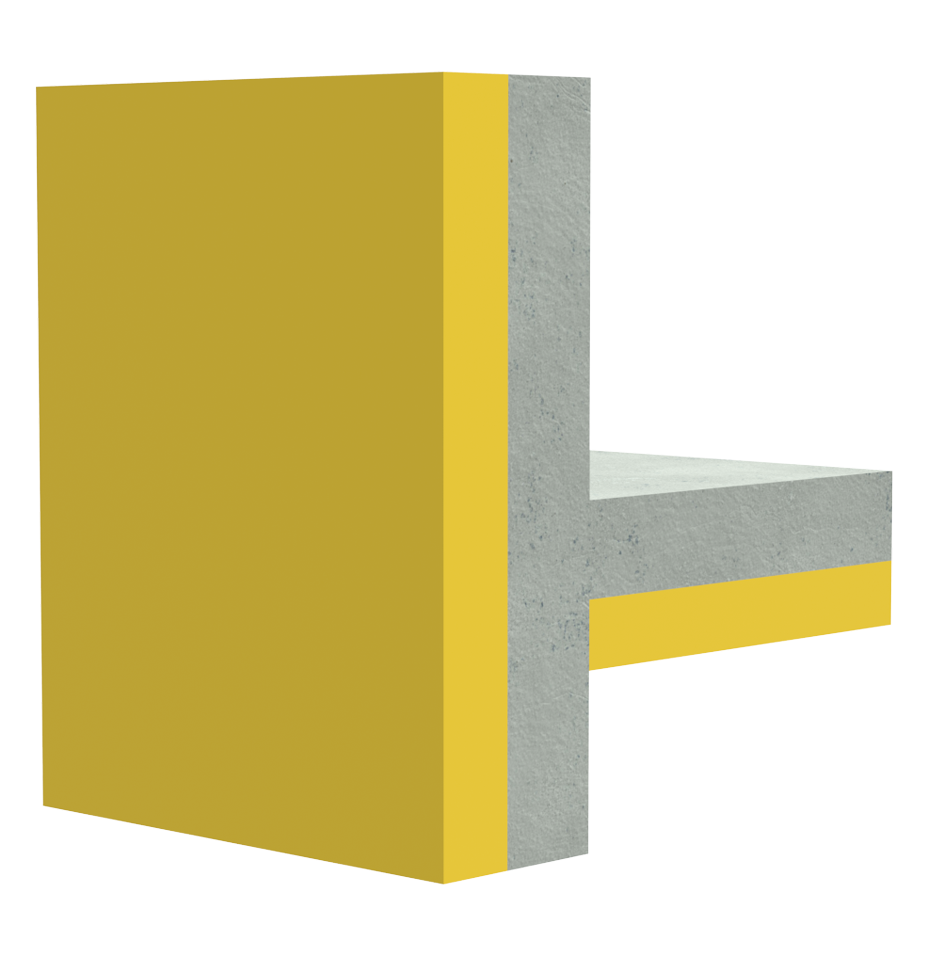
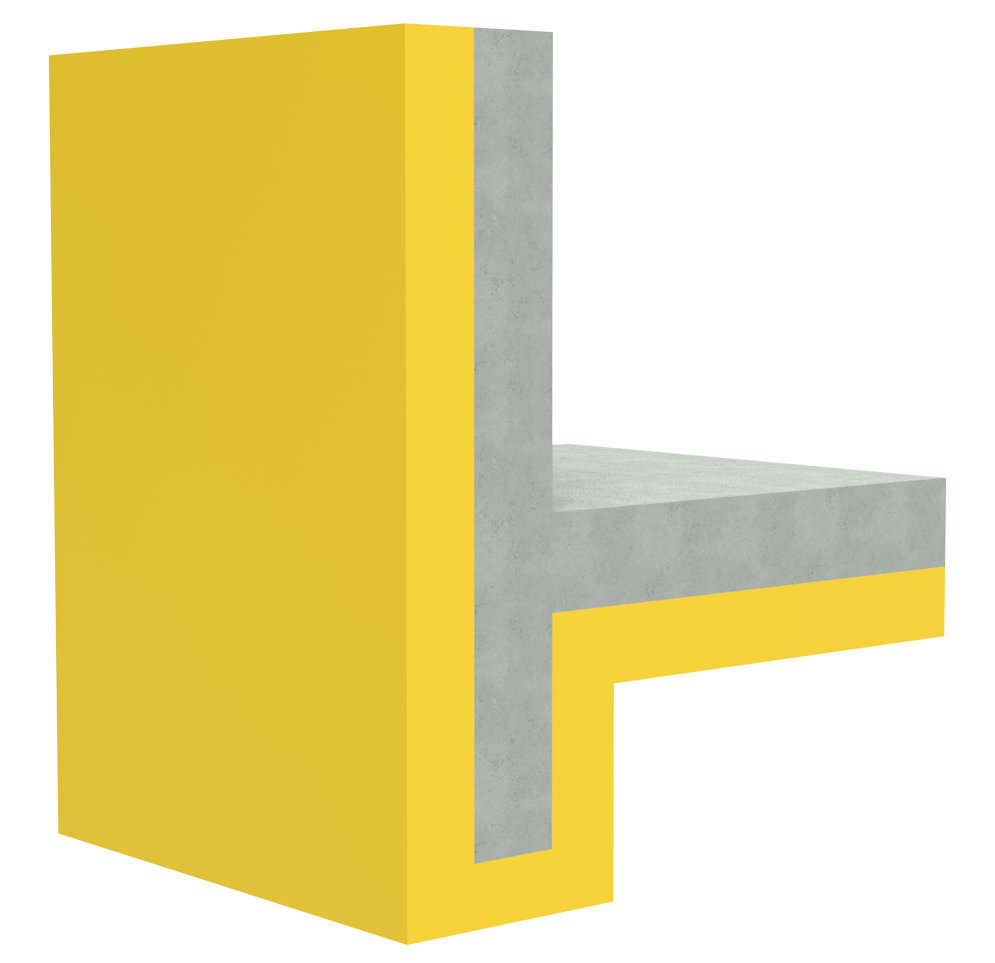
접합부열교 및 3D 수정

diff --git a/asset/3d/editor/js/Bridges.js b/asset/3d/editor/js/Bridges.js
@@ -124,6 +124,7 @@ Bridges.prototype = {
 					let edges = el2.edges;
 					let links = el2.links;
 
+			
 					j = -1;
 
 					while(++j < edges.length) {
@@ -223,7 +224,7 @@ Bridges.prototype = {
 							}
 						}
 						else if (kind == 8) {
-							if (el2.type == 'IW') {
+							if (parseInt(el.userData.floor) >= 1 && el2.type == 'IW') {
 								k = -1;
 								let l;
 								while(++k < links[j].length) {
@@ -242,6 +243,7 @@ Bridges.prototype = {
 								}
 							}
 						}
+
 						else if (kind == 9) {
 							if (el2.type == 'WL' && Math.abs(edges[j][1].y - edges[j][0].y) > 0.00001) {
 								k = -1;
@@ -249,6 +251,7 @@ Bridges.prototype = {
 									let el3 = links[j][k];
 
 									if (el3.type == 'WL' 
+										&& el2.zoneid == el3.zoneid
 										&& Math.round(_angleBetween(el2.center, new THREE.Vector3((edges[j][0].x + edges[j][1].x) / 2, (edges[j][0].y + edges[j][1].y) / 2, (edges[j][0].z + edges[j][1].z) / 2), el3.center)) == ((Math.atan2(el2.normal.z, el2.normal.x) * 180 / Math.PI) < 180 ? -90:90) && 
 										!_includeRect(edges[j], el3)) {
 										done = true;
@@ -257,6 +260,7 @@ Bridges.prototype = {
 								}
 							}
 						}
+						
 						else if (kind == 10) {
 							if (el2.type == 'WL' && Math.abs(edges[j][1].y - edges[j][0].y) > 0.00001) {
 								k = -1;
@@ -295,6 +299,53 @@ Bridges.prototype = {
 								}
 							}
 						}
+						//(지하 지중접합 열교)
+
+						// else if (kind == 13) {
+						// 	// B로 시작하는 층을 확인하기 위한 정규 표현식
+						// 	const floorPattern = /^B\d+$/i;  
+						
+						// 	// el.userData.floor가 문자열일 경우 공백 제거하고 대소문자 통일 후 확인
+						// 	let floorValue = el.userData.floor.trim ? el.userData.floor.trim().toUpperCase() : el.userData.floor.toString().toUpperCase();
+							
+						// 	if ((el.userData.floor == 1 || floorPattern.test(floorValue)) && el2.type == 'FL') {
+						// 		k = -1;
+						// 		while (++k < links[j].length) {
+						// 			let el3 = links[j][k];
+						// 			if (Math.abs(MathUtils.radToDeg(el2.normal.angleTo(el3.normal))) == 90 && el3.type == 'WL' && el2.center.y < el3.center.y) {
+						// 				done = true;
+						// 				break;
+						// 			}
+						// 		}
+						// 	}
+						// }
+
+						else if (kind == 13 ){
+							if (parseInt(el.userData.floor) === 1 && el2.type == 'FL'){
+								k= -1;
+							while (++k < links[j].length) {
+								let el3=  links[j][k];
+								if(Math.abs(MathUtils.radToDeg(el2.normal.angleTo(el3.normal))) == 90 && el3.type == 'WL' && el2.center.y < el3.center.y) {
+									done = true;
+									break;
+								} 
+							}
+						}
+					}
+					
+						else if (kind == 14 ){
+							if (parseInt(el.userData.floor) === 1 && el2.type == 'FL'){
+								k= -1;
+							while (++k < links[j].length) {
+								let el3=  links[j][k];
+								if(Math.abs(MathUtils.radToDeg(el2.normal.angleTo(el3.normal))) == 90 && el3.type == 'WL' && el2.center.y > el3.center.y) {
+									done = true;
+									break;
+								} 
+							}
+						}
+					}
+						
 						if (done) {
 							_pushBridge(kind, edges[j]);
 						}

diff --git a/asset/3d/editor/js/SQLExport.js b/asset/3d/editor/js/SQLExport.js
@@ -164,6 +164,8 @@ SQLExport.prototype = {
             10: "외벽+외벽[270]",
             11: "바닥+외벽[90]",
             12: "바닥+외벽[270]",
+            13: "지면바닥+외벽[90]",
+            14: "지면바닥+외벽[270]",
         };
         let _codes = {
             1: "RTB1",
@@ -178,6 +180,8 @@ SQLExport.prototype = {
             10: "WTB4",
             11: "WTB5",
             12: "WTB6",
+            13: "WTB7",
+            14: "WTB8",
         };
 
         if (zkeys.length > 0) {
@@ -369,7 +373,7 @@ SQLExport.prototype = {
                         "','" +
                         _asVal(el2.left_shadow_height, "0") +
                         "','" +
-                        _asVal(el2.up_shadow_height, "0") +
+                        _asVal(el2.up_shadow_base, "0") +
                         "','" +
                         _asVal(el2.shadow_height, "0") +
                         "','" + _asVal(el2.width,"") + 

diff --git a/asset/3d/editor/js/Shadows.js b/asset/3d/editor/js/Shadows.js
@@ -531,9 +531,11 @@ Shadows.prototype = {
 								up.y = upPoint.y;
 							
 								el2.up_shadow_base = Math.hypot(upPoint.x - ctr.x, upPoint.z - ctr.z); // XY 평면 기준 거리
-								el2.up_shadow_height = upPoint.y - ctr.y; // Y축 거리
+								
+								el2.up_shadow_height = upPoint.x - ctr.x; // Y축 거리
+
 								el2.up_shadow_angle = 90-(Math.atan2(el2.up_shadow_height, el2.up_shadow_base) * 180 / Math.PI);
-							
+
 								win.userData.shadows.push(_addLineObject([ctr, upPoint], 0xFF00FF, 0.5));
 							}
 							
@@ -549,3 +551,4 @@ Shadows.prototype = {
 };
 
 export { Shadows };
+

diff --git a/main/subcontents/ThermalBridge/TB_List.cs b/main/subcontents/ThermalBridge/TB_List.cs
@@ -22,8 +22,8 @@ namespace main.contents
     {
         string sid = "";
         string TBType;
-        string[] ID = { "RTB1", "RTB2", "RTB3", "RTB4", "RTB5", "RTB6", "WTB1", "WTB2", "WTB3", "WTB4", "WTB5", "WTB6" };
-        string[] ID_Name = { "평지붕+외벽[90]", "평지붕+외벽[270]", "평지붕+내벽", "경사지붕", "경사지붕+외벽[수평]", "경사지붕+외벽[경사]", "층간슬라브+외벽", "외벽+내벽", "외벽+외벽[90]", "외벽+외벽[270]", "바닥+외벽[90]", "바닥+외벽[270]" };
+        string[] ID = { "RTB1", "RTB2", "RTB3", "RTB4", "RTB5", "RTB6", "WTB1", "WTB2", "WTB3", "WTB4", "WTB5", "WTB6", "WTB7", "WTB8"};
+        string[] ID_Name = { "평지붕+외벽[90]", "평지붕+외벽[270]", "평지붕+내벽", "경사지붕", "경사지붕+외벽[수평]", "경사지붕+외벽[경사]", "층간슬라브+외벽", "외벽+내벽", "외벽+외벽[90]", "외벽+외벽[270]", "바닥+외벽[90]", "바닥+외벽[270]", "지면바닥+외벽[90]", "지면바닥+외벽[270]" };
         double Total_length;
         public TB_List()
         {
